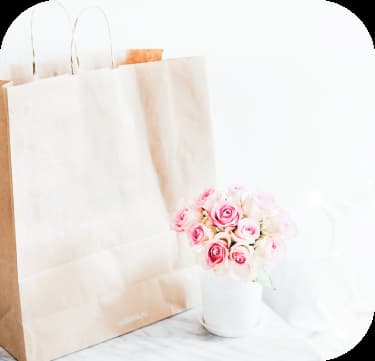
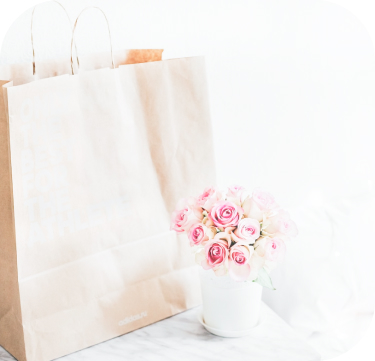
++

diff --git a/css/styles.css b/css/styles.css
@@ -26,6 +26,7 @@ ol {
 
 img {
   display: block;
+  width: fit-content;
 }
 
 .menu {
@@ -182,7 +183,8 @@ img {
 
 .advantages .container,
 .gallery .container,
-.steps .container {
+.steps .container,
+.testimonials .container {
   margin-top: 80px;
 }
 
@@ -295,13 +297,18 @@ img {
   line-height: 1.5;
   letter-spacing: 0.02em;
   width: 100%;
-  height: 100%;
+  height: 0;
+  opacity: 0;
+  pointer-events: none;
+  overflow: hidden;
   transform: translateY(100%);
   transition: transform 250ms cubic-bezier(0.4, 0, 0.2, 1);
 }
 
-.gallery-item:hover,
+.card:hover,
 .card:hover .overlay {
+  height: 100%;
+  opacity: 1;
   box-shadow: 0px 2px 1px 0px rgba(46, 47, 66, 0.08),
     0px 1px 1px 0px rgba(46, 47, 66, 0.16),
     0px 1px 6px 0px rgba(46, 47, 66, 0.08);
@@ -392,4 +399,18 @@ img {
   font-weight: 700;
   line-height: 124%; /* 24.8px */
   text-transform: capitalize;
+}
+
+.testimonials-image {
+  padding: 0;
+  width: 100%;
+  border-radius: 60 60 60 0;
+}
+
+.testimonials-card {
+  margin-top: 40px;
+}
+
+.review-card-info {
+  align-items: flex-start;
 }

diff --git a/index.html b/index.html
@@ -240,7 +240,27 @@
           </ul>
         </div>
       </section>
-      <section></section>
+      <section class="testimonials">
+        <div class="container">
+          <h2 class="section-heading">testimonials</h2>
+          <div class="testimonials-image">
+            <picture>
+              <img src="./images/testimonials-img-mob.jpg" alt="flower_gift" />
+            </picture>
+          </div>
+          <div class="testimonials-card">
+            <div class="review-card-info">
+              <p class="user-name">David</p>
+              <p class="review-data">Feb 14, 2023</p>
+            </div>
+            <p class="review-text">
+              I was impressed by the fast and efficient delivery service
+              provided by the flower shop, as my order arrived within hours of
+              placing it
+            </p>
+          </div>
+        </div>
+      </section>
       <section></section>
     </main>
 
